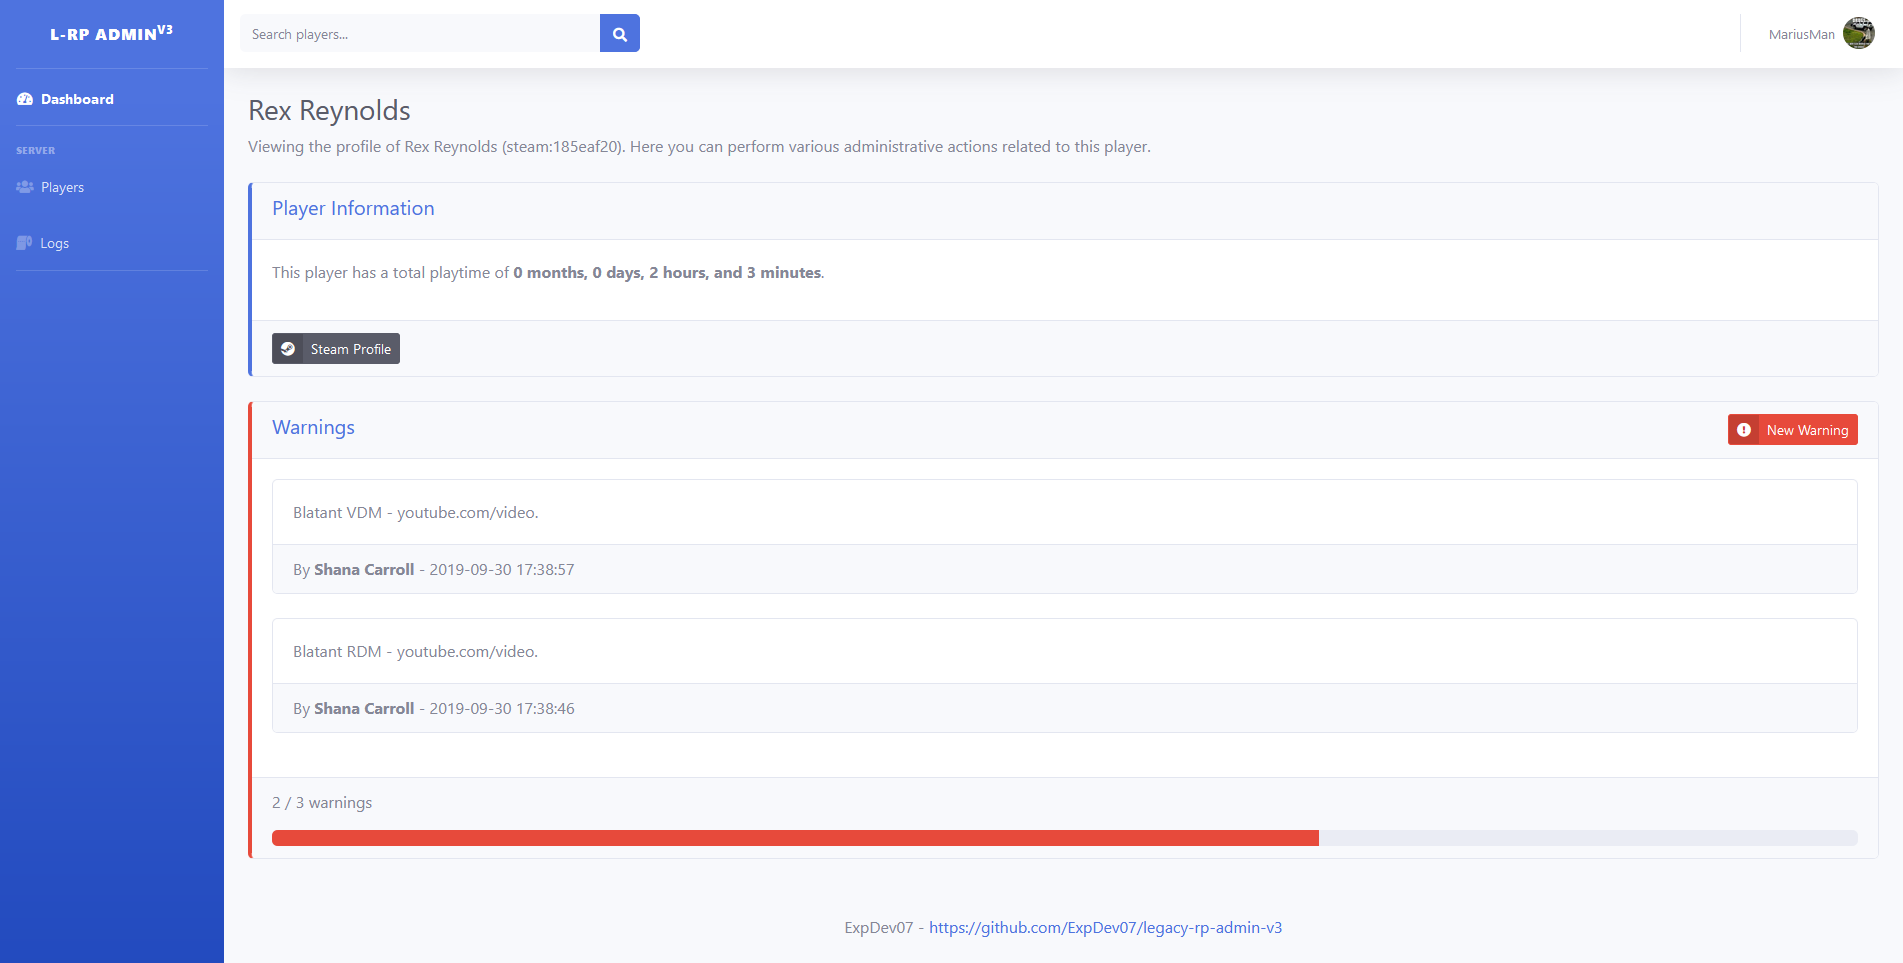
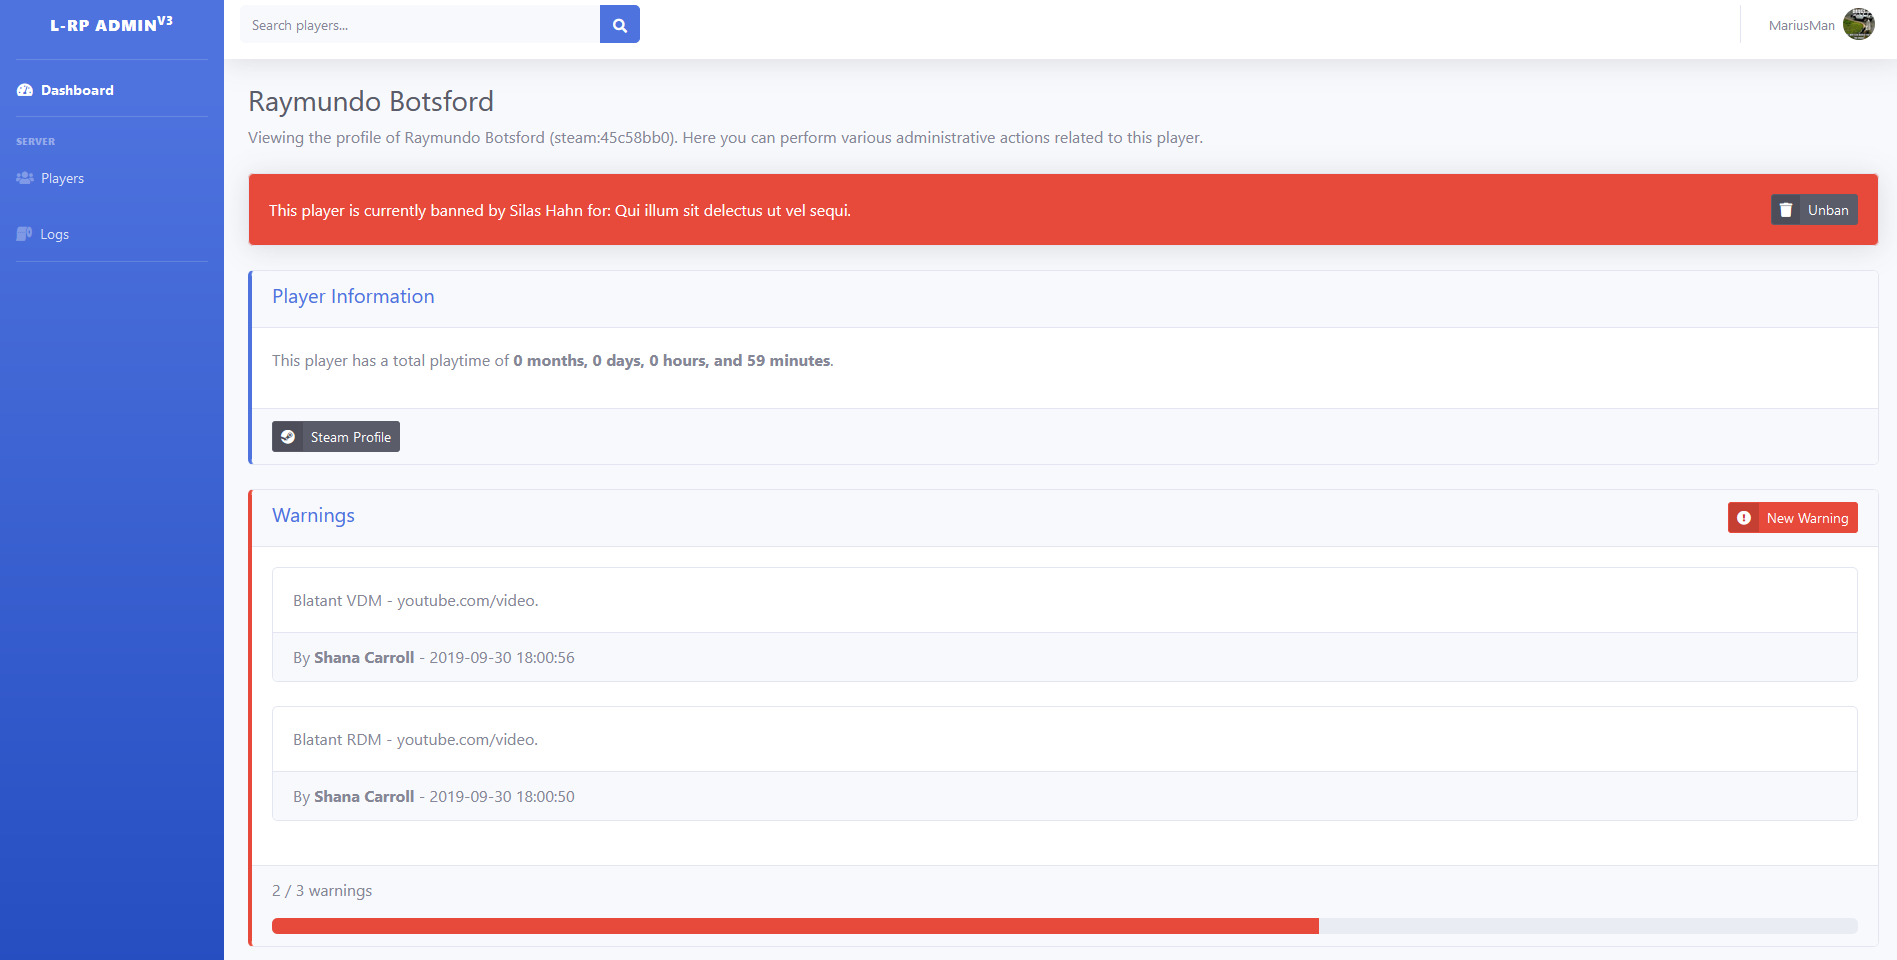
banned player

diff --git a/resources/views/players/show.blade.php b/resources/views/players/show.blade.php
@@ -9,27 +9,37 @@
 
 @section('main')
 
-    <!-- Checking for ban -->
     @if ($ban = $player->bans()->first())
         <div class="row">
-            <div class="col">
-                <div class="card bg-danger">
-                    <div class="card-body text-white">
-                        <span class="font-weight-bold">
-                            This player is currently banned by
+            <div class="col mb-4">
+                <div class="card bg-danger text-white shadow">
+                    <div class="card-body">
+                        <div class="d-flex align-items-center justify-content-between">
+                            <!-- Ban information -->
+                            <div>
+                                This player is currently banned by
 
-                            <!-- Determine whether we're going to use the issuer or banner-id -->
-                            @if ($issuer = $ban->issuer)
-                                {{ $issuer->name }}
-                            @else
-                                {{ $ban['banner-id'] }}
-                            @endif
-                            for:
-                        </span>
-                        {{ $ban->reason }}
-                    </div>
-                    <div class="card-footer">
-                        <span class="font-weight-bold">Ref ID #:</span> {{ $ban->ref_id }}
+                                <!-- Determine whether we're going to use the issuer or banner-id -->
+                                @if ($issuer = $ban->issuer)
+                                    {{ $issuer->name }}
+                                @else
+                                    {{ $ban['banner-id'] }}
+                                @endif
+                                for: {{ $ban->reason }}
+                            </div>
+                            <!-- Unbanning -->
+                            <form>
+                                <button class="btn btn-sm btn-dark btn-icon-split">
+                                    <!-- Icon -->
+                                    <span class="icon"><i class="fas fa-trash"></i></span>
+
+                                    <!-- Text -->
+                                    <span class="text">
+                                        Unban
+                                    </span>
+                                </button>
+                            </form>
+                        </div>
                     </div>
                 </div>
             </div>
@@ -38,8 +48,8 @@
 
     <!-- Player information -->
     <div class="row">
-        <div class="col">
-            <div class="card border-left-primary mb-4">
+        <div class="col mb-4">
+            <div class="card border-left-primary">
                 <div class="card-header">
                     <h5 class="text-primary">Player Information</h5>
                 </div>
@@ -66,8 +76,8 @@
 
     <!-- Warnings -->
     <div class="row">
-        <div class="col">
-            <div class="card border-left-danger mb-4">
+        <div class="col mb-4">
+            <div class="card border-left-danger">
                 <div class="card-header">
                     <div class="d-flex align-items-center justify-content-between">
                         <!-- Title -->
